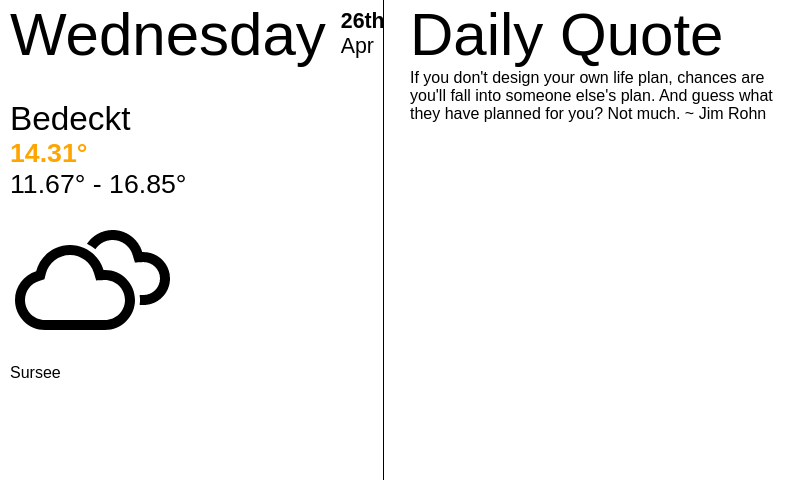
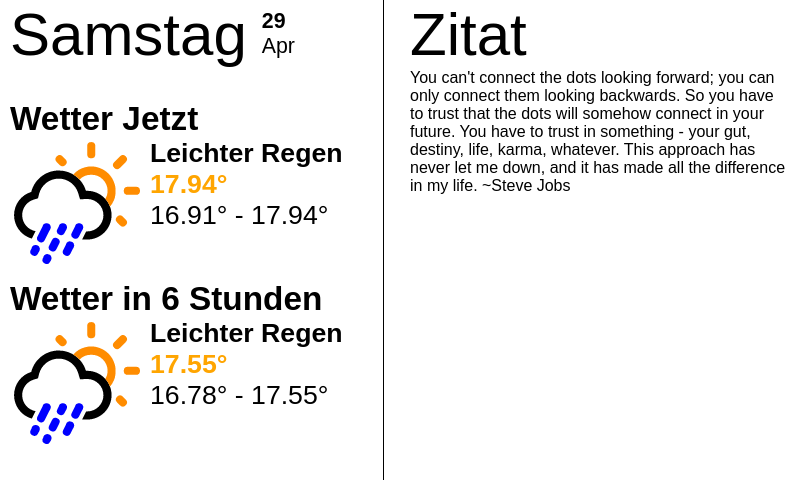
Changed locale to german and added forecast widget

diff --git a/dashboard.html b/dashboard.html
@@ -7,25 +7,38 @@
     </head>
     <body>
         <div id="today-header">
-            <span id="today-date-weekday"></i>Wednesday</span>
+            <span id="today-date-weekday"></i>Samstag</span>
             <span id="today-date-daymonth">
               <div id="today-date-day">
-                26th
+                29
               </div>
               Apr
             </span>
           </div>   
-        <div id="wetter">
-          <span id="weather-description"> Bedeckt<br/></span>
-          <span id="weather-temp">14.31°<br/></span>
-          <span id="weather-tempminmax">11.67° - 16.85°<br/></span>
-          <img id="today-icon" src=icons/04d.svg alt="04d"><br/>
-          Sursee<br/>
+        <div id="weather_now">
+          <span id="weather_title">Wetter Jetzt<br/></span>  
+          <div id="weather_text">
+            <span id="weather-description">Leichter Regen<br/></span>
+            <span id="weather-temp">17.94°<br/></span>
+            <span id="weather-tempminmax">16.91° - 17.94°<br/></span>
+          </div>
+          <img id="today-icon" src=icons/10d.svg alt="10d"><br/>
         </div>
+        <div id="weather_forecast">
+          <span id="weather_title">Wetter in 6 Stunden<br/></span>  
+          <div id="weather_text">
+            <span id="weather-description">Leichter Regen<br/></span>
+            <span id="weather-temp">17.55°<br/></span>
+            <span id="weather-tempminmax">16.78° - 17.55°<br/></span>
+          </div>
+          <img id="today-icon" src=icons/10d.svg alt="10d"><br/>
+        </div>
+
         <div class="vl"></div>
+
         <div id="quote">
-          <span id="today-date-weekday"></i>Daily Quote<br/></span>
-          <span id="quote-text">If you don't design your own life plan, chances are you'll fall into someone else's plan. And guess what they have planned for you? Not much. ~ Jim Rohn
+          <span id="today-date-weekday"></i>Zitat<br/></span>
+          <span id="quote-text">You can't connect the dots looking forward; you can only connect them looking backwards. So you have to trust that the dots will somehow connect in your future. You have to trust in something - your gut, destiny, life, karma, whatever. This approach has never let me down, and it has made all the difference in my life. ~Steve Jobs
 <br/></span> 
         </div>
     </body>

diff --git a/dashboard_template.html b/dashboard_template.html
@@ -15,16 +15,29 @@
               MONTHTODAY
             </span>
           </div>   
-        <div id="wetter">
-          <span id="weather-description"> DESC<br/></span>
-          <span id="weather-temp">NOWTEMP°<br/></span>
-          <span id="weather-tempminmax">MINTEMP° - MAXTEMP°<br/></span>
-          <img id="today-icon" src=icons/ICON.svg alt="ICON"><br/>
-          CITY<br/>
+        <div id="weather_now">
+          <span id="weather_title">Wetter Jetzt<br/></span>  
+          <div id="weather_text">
+            <span id="weather-description">NOW_DESC<br/></span>
+            <span id="weather-temp">NOW_NOWTEMP°<br/></span>
+            <span id="weather-tempminmax">NOW_MINTEMP° - NOW_MAXTEMP°<br/></span>
+          </div>
+          <img id="today-icon" src=icons/NOW_ICON.svg alt="NOW_ICON"><br/>
         </div>
+        <div id="weather_forecast">
+          <span id="weather_title">Wetter in 6 Stunden<br/></span>  
+          <div id="weather_text">
+            <span id="weather-description">FORECAST_DESC<br/></span>
+            <span id="weather-temp">FORECAST_NOWTEMP°<br/></span>
+            <span id="weather-tempminmax">FORECAST_MINTEMP° - FORECAST_MAXTEMP°<br/></span>
+          </div>
+          <img id="today-icon" src=icons/NOW_ICON.svg alt="NOW_ICON"><br/>
+        </div>
+
         <div class="vl"></div>
+
         <div id="quote">
-          <span id="today-date-weekday"></i>Daily Quote<br/></span>
+          <span id="today-date-weekday"></i>Zitat<br/></span>
           <span id="quote-text">QUOTE<br/></span> 
         </div>
     </body>

diff --git a/styles.css b/styles.css
@@ -24,16 +24,33 @@
         font-weight: bold;
         }
         #today-icon {
-        width: 160px;
-        height: 160px;
+        width: 130px;
+        height: 130px;
+        float: left;
+        margin-right: 10px;
         }
-        #wetter {
+        #weather_title {
+        font-size: 25pt;
+        font-weight: bold;
+        margin-top: 5px;
+        margin-bottom: 5px;
+        }
+        #weather_now {
         position: absolute;
         top: 100px;
         left: 10px;
         }
+        #weather_forecast {
+        position: absolute;
+        top: 280px;
+        left: 10px;
+        }
+        #weather_text {
+                float: right;
+        }
         #weather-description{
-        font-size: 25pt;
+        font-size: 20pt;
+        font-weight: bold;
         }
         #weather-temp{
         font-size: 20pt;
